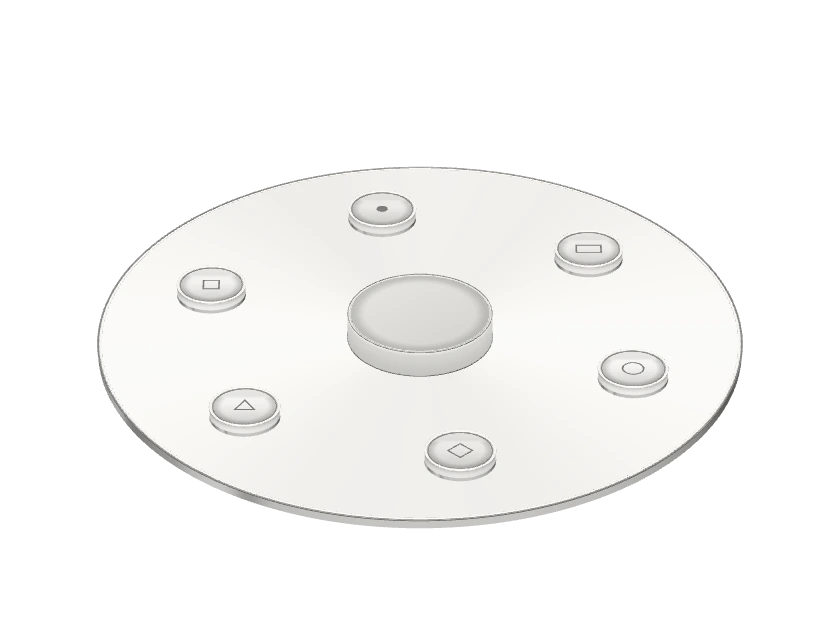
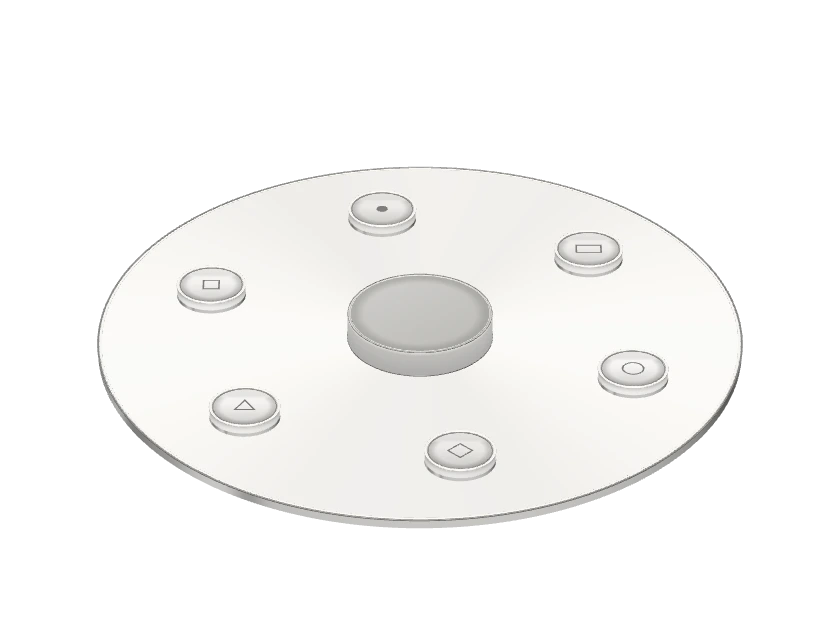
Layer: a darker core as the problem; its outer arcs settle in as it lands
Snapshot of near.org site commit a8be4ce.

Changed region(s): [[0.4024, 0.4524, 0.5881, 0.6032]]

diff --git a/src/components/home/story/orbit/motion/o3/layer/layer.gl.ts b/src/components/home/story/orbit/motion/o3/layer/layer.gl.ts
@@ -120,7 +120,9 @@ function clear(pal: Pal, R: number, H: number): Clear {
 // falls across the face from the key light's side (upper left, at the back)
 type Core = { mat: THREE.MeshPhysicalMaterial; set: (green: number, mark: number) => void };
 function frost(pal: Pal, nTex: THREE.Texture, top: boolean): Core {
-  const neutral = pal.onDark.clone();
+  // D101 (Lawrence: "I want the middle disc to be tinted darker"): the neutral frost (someone else's layer) is a
+  // darker grey; the green it turns is unchanged
+  const neutral = mix(pal.onDark, pal.ink, 0.2);
   const green = mix(pal.green, pal.ink, 0.22);
   const m = new THREE.MeshPhysicalMaterial({
     color: neutral.clone(), metalness: 0, roughness: 0.4, transmission: 1, thickness: 0.3, ior: 1.4,
@@ -129,7 +131,7 @@ function frost(pal: Pal, nTex: THREE.Texture, top: boolean): Core {
   });
   const u = {
     uN: { value: nTex }, uMark: { value: 0 }, uGreen: { value: 0 },
-    uGlow: { value: mix(pal.onDark, pal.surface2, 0.15) }, uMilk: { value: mix(pal.onDark, mix(pal.green, pal.ink, 0.15), 0.45) },
+    uGlow: { value: mix(pal.onDark, pal.surface2, 0.15) }, uGrey: { value: mix(mix(pal.onDark, pal.surface2, 0.15), pal.ink, 0.24) }, uMilk: { value: mix(pal.onDark, mix(pal.green, pal.ink, 0.15), 0.45) },
     uDeep: { value: mix(mix(pal.green, pal.ink, 0.6), pal.surface2, 0.1) }, uHi: { value: pal.onDark.clone() },
   };
   m.onBeforeCompile = (sh) => {
@@ -138,7 +140,7 @@ function frost(pal: Pal, nTex: THREE.Texture, top: boolean): Core {
       .replace("#include <common>", "#include <common>\nvarying vec3 vLoc;")
       .replace("#include <begin_vertex>", "#include <begin_vertex>\nvLoc = position;");
     sh.fragmentShader = sh.fragmentShader
-      .replace("#include <common>", "#include <common>\nvarying vec3 vLoc;\nuniform sampler2D uN;\nuniform float uMark;\nuniform float uGreen;\nuniform vec3 uGlow;\nuniform vec3 uMilk;\nuniform vec3 uDeep;\nuniform vec3 uHi;")
+      .replace("#include <common>", "#include <common>\nvarying vec3 vLoc;\nuniform sampler2D uN;\nuniform float uMark;\nuniform float uGreen;\nuniform vec3 uGlow;\nuniform vec3 uGrey;\nuniform vec3 uMilk;\nuniform vec3 uDeep;\nuniform vec3 uHi;")
       .replace("#include <opaque_fragment>", `{
         float rr = length(vLoc.xz);
         float sheen = 0.5 + 0.5 * dot(vLoc.xz, normalize(vec2(-0.6, -0.8)));
@@ -147,7 +149,7 @@ function frost(pal: Pal, nTex: THREE.Texture, top: boolean): Core {
         float band = smoothstep(0.74, 0.93, rr) * (1.0 - smoothstep(0.95, 0.985, rr));
         float edge = smoothstep(0.965, 0.995, rr);
         float milk = mix(0.62, 0.5, uGreen) * (1.0 - band) * (0.8 + 0.3 * sheen);
-        outgoingLight = mix(outgoingLight, mix(uGlow, uMilk, uGreen), milk);
+        outgoingLight = mix(outgoingLight, mix(uGrey, uMilk, uGreen), milk);
         outgoingLight *= 1.0 - 0.05 * band * uGreen;
         outgoingLight += uGlow * (edge * mix(0.3, 0.45, uGreen) + 0.06 * sheen);
         // the mark (the people): a shallow incised line. Inside it the glass is a touch deeper and clearer; along its walls a bright
@@ -162,18 +164,18 @@ function frost(pal: Pal, nTex: THREE.Texture, top: boolean): Core {
         outgoingLight += uHi * max(-e, 0.0) * 0.55 * uMark;
         outgoingLight *= 1.0 - max(e, 0.0) * 0.35 * uMark;` : `
         // the wall: the glass's thickness, where the colour is densest; a little milk and a glow at its upper lip
-        outgoingLight = mix(outgoingLight, uGlow, 0.55 * (1.0 - uGreen));
+        outgoingLight = mix(outgoingLight, uGrey, 0.55 * (1.0 - uGreen));
         outgoingLight *= mix(0.84, 1.0, smoothstep(0.0, 1.0, vLoc.y));
         outgoingLight += uGlow * smoothstep(0.85, 1.0, vLoc.y) * 0.18;`}
       }
       #include <opaque_fragment>`);
   };
-  m.customProgramCacheKey = () => `layer-frost-${top ? "top" : "side"}-7`;
+  m.customProgramCacheKey = () => `layer-frost-${top ? "top" : "side"}-8`;
   return {
     mat: m,
     set(g, mark) {
       m.color.copy(neutral).lerp(green, g);
-      m.attenuationColor.copy(pal.onDark).lerp(green, g);
+      m.attenuationColor.copy(neutral).lerp(green, g);
       m.specularIntensity = 0.8 - 0.25 * g;
       u.uGreen.value = g;
       u.uMark.value = mark;

diff --git a/src/components/home/story/orbit/motion/o3/layer/layer.scene.ts b/src/components/home/story/orbit/motion/o3/layer/layer.scene.ts
@@ -33,7 +33,8 @@ export const LAYER = {
   token: { r: 0.19, h: 0.066, at: [100, 160, 220, 280, 340, 40] as const }, // degrees; 90 is the back
   tokenIn: 0.81, // where the tokens draw in to
   core: { r0: 0.4, r1: 1.11, h0: 0.15, h1: 0.22 },
-  dial: { r: 1.98, span: 110, period: 90 }, // the graduated sectors outside the plate, in its foot's plane
+  // the graduated sectors outside the plate, in its foot's plane; D101: `out` further out while the drawing arrives
+  dial: { r: 1.98, span: 110, period: 90, out: 0.7 },
   ride: { ring: 84, square: 120 }, // the markers on the track (seconds a lap)
   enter: { yaw: rad(48), still: 0.05, full: 0.45 }, // the arrival turn
   breath: 8,
@@ -159,17 +160,21 @@ export function layerVectors({ own, yaw, t }: LayerPose): Record<string, Attrs> 
   [0, 90, 180, 270].forEach((d, i) => { out[`cross${i}`] = { transform: xf(at(polar(P.R - 0.2, d, LIFT))) }; });
 
   // two graduated sectors outside the plate, opposite each other, turning once every 90 s (carried rigidly)
+  // D101 (Lawrence: "Have the graphic arcs on the outside of the base disc be farther away from the base when it
+  // animates on and they settle to their current position when it lands in the middle of the frame"): their radius
+  // follows the arrival turn (its spring), out by `out` while the drawing is still turning in, home as it lands
   const D = LAYER.dial, c0 = 200 + (360 * t) / D.period;
+  const away = clamp(Math.abs(yaw) / LAYER.enter.yaw), dr = D.r + D.out * away * away * (3 - 2 * away);
   let dArc = "", dTicks = "";
   // (in the plane of the plate's foot, so on screen they pass clear below its front edge, and left out wherever the
   // plate covers them at the back)
   const foot = -P.depth;
   for (const base of [c0, c0 + 180]) {
-    dArc += path((u) => polar(D.r, base - D.span / 2 + u * D.span, foot), 60, W, seen);
+    dArc += path((u) => polar(dr, base - D.span / 2 + u * D.span, foot), 60, W, seen);
     const n = D.span / 2.5;
     for (let i = 0; i <= n; i++) {
-      const deg = base - D.span / 2 + i * 2.5, r1 = D.r + (i === 0 || i === n ? 0.13 : i % 6 === 0 ? 0.075 : 0.04);
-      const p0 = polar(D.r, deg, foot), p1 = polar(r1, deg, foot);
+      const deg = base - D.span / 2 + i * 2.5, r1 = dr + (i === 0 || i === n ? 0.13 : i % 6 === 0 ? 0.075 : 0.04);
+      const p0 = polar(dr, deg, foot), p1 = polar(r1, deg, foot);
       if (seen(p0) && seen(p1)) dTicks += seg2(at(p0), at(p1));
     }
   }
